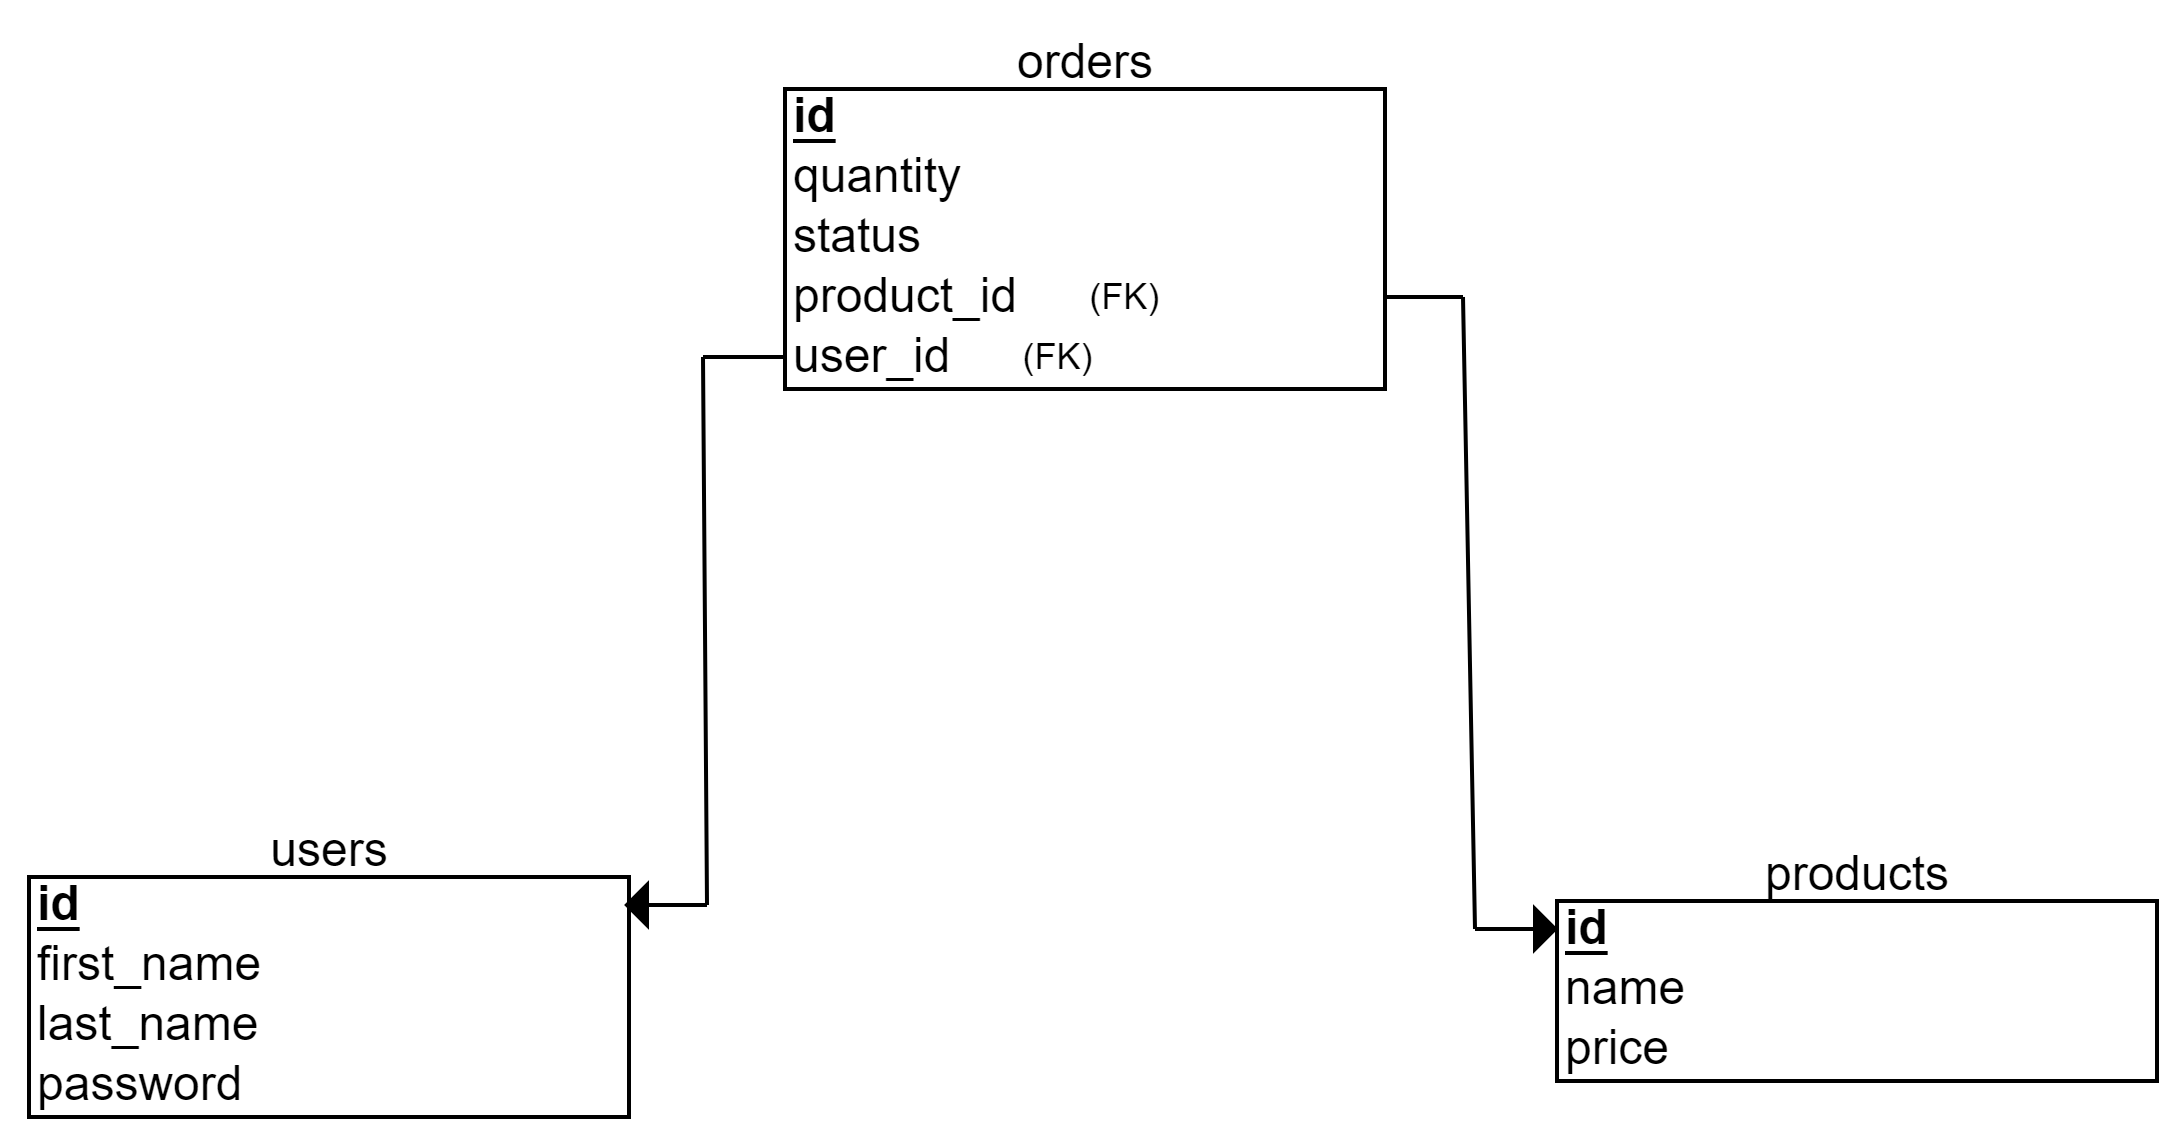
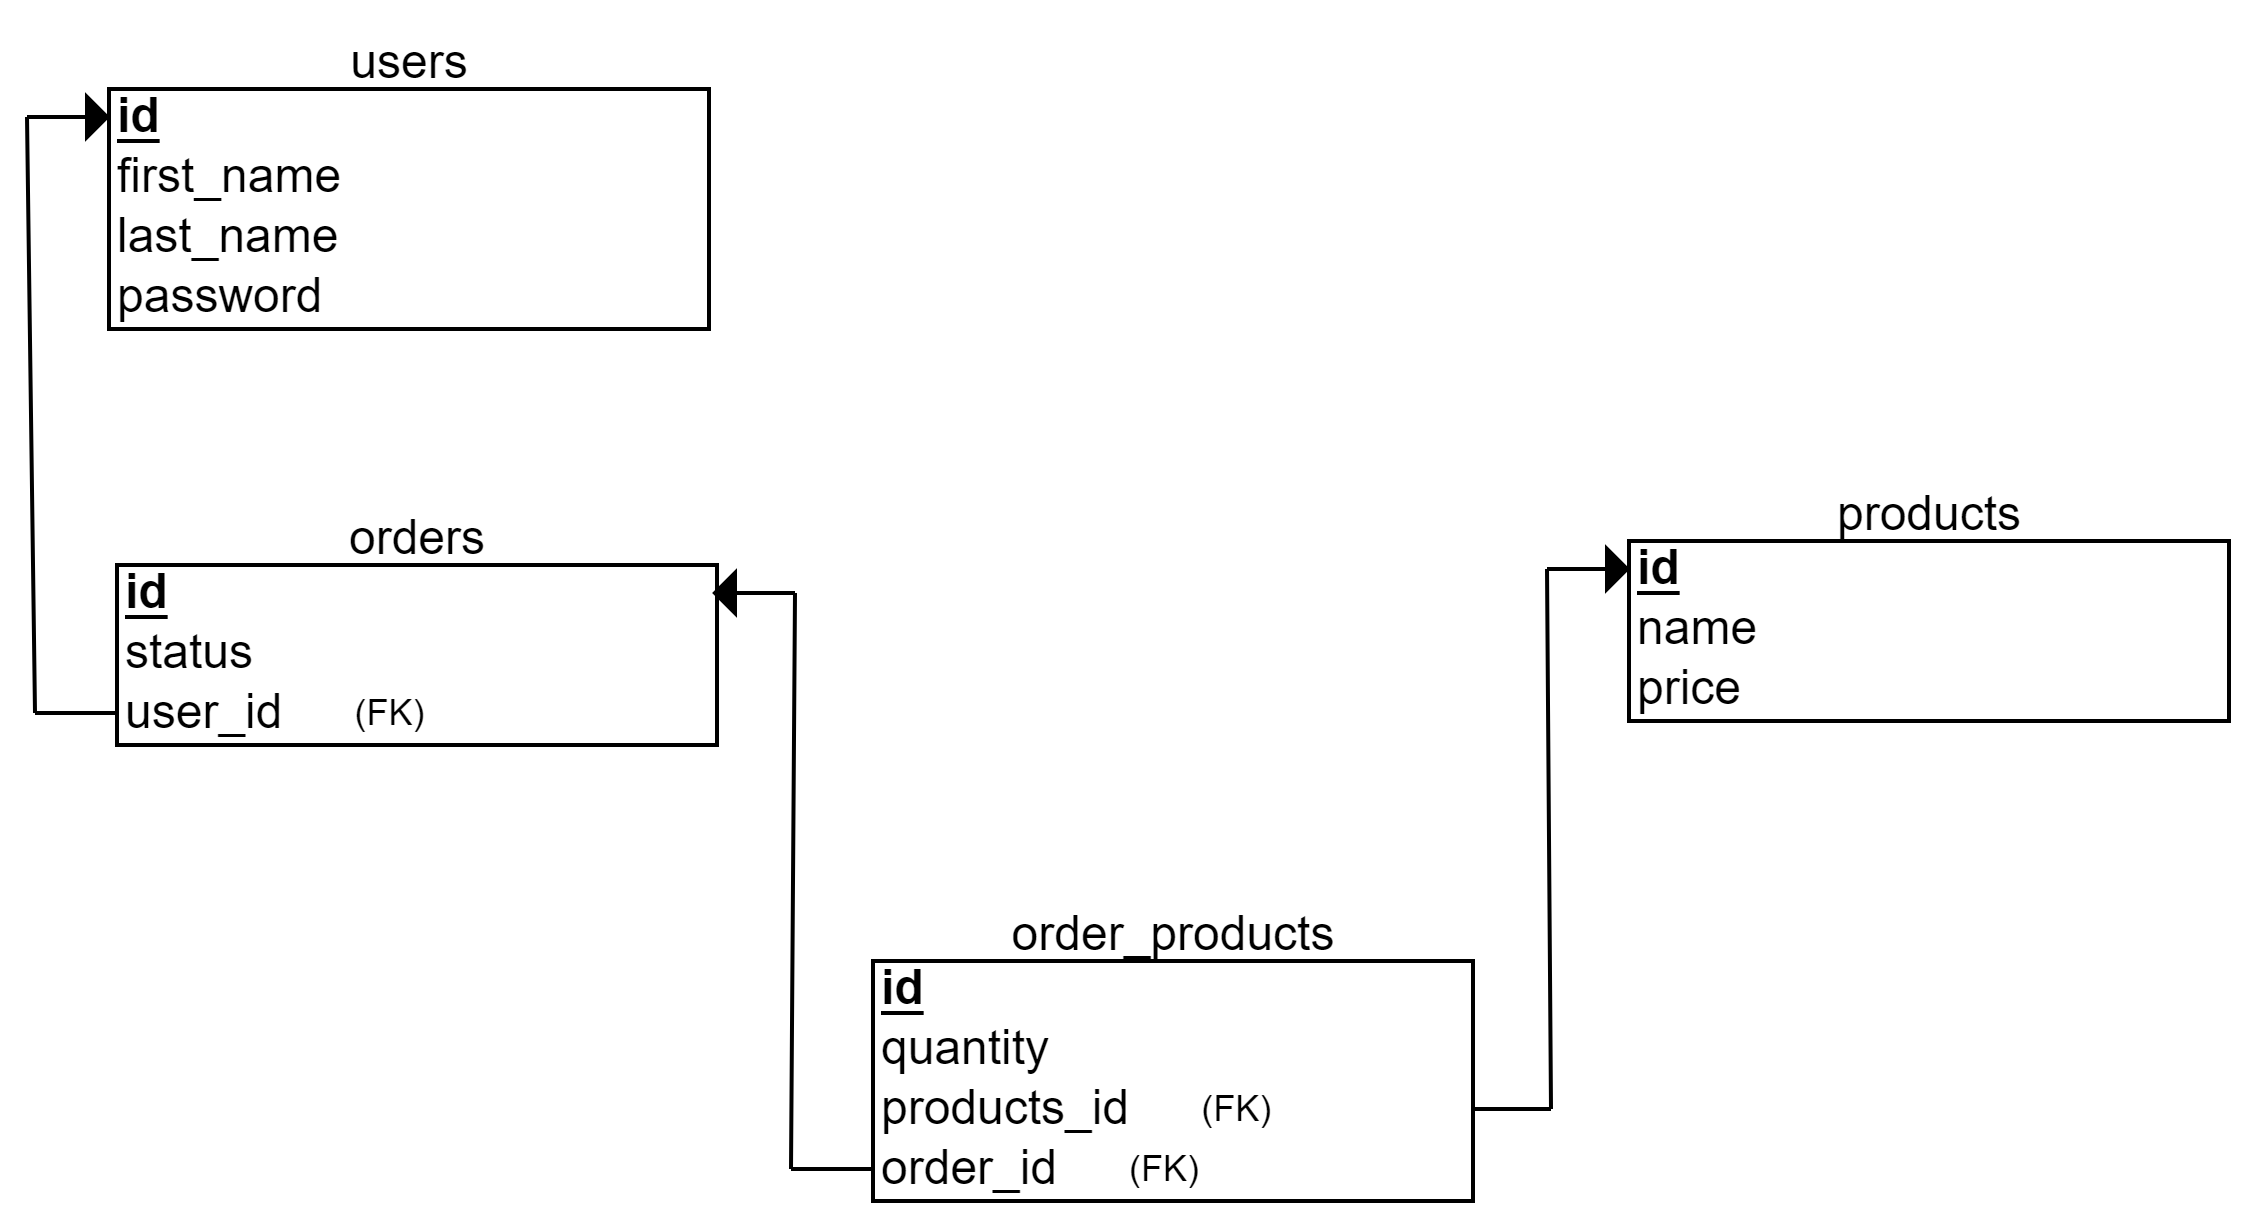
addProduct service

diff --git a/src/services/addProduct.ts b/src/services/addProduct.ts
@@ -1,0 +1,66 @@
+// this service will allow user to add a product into his order
+// (the user_id of the order must be his id)
+
+import express,{ Request,Response } from "express";
+import db from "../database";
+import { authenticationMiddleWare } from "../handlers/users";
+import jwt, { Secret } from "jsonwebtoken";
+import dotenv from "dotenv";
+dotenv.config();
+
+
+const addProduct = async (req:Request,res:Response)=>{
+
+    try
+    {
+        const order_id = parseInt(req.body.order_id);
+        const product_id = parseInt(req.body.product_id);
+        const quantity = parseInt(req.body.quantity);
+        const token = req.cookies.token;
+        const decoded = jwt.verify(token,(process.env.JWT_KEY) as Secret);
+        const user_id = (decoded as jwt.JwtPayload).user_id;
+        
+        // until this point I have the needed data about the user, product and order
+        // now I will check if user wants to add a products to an order belongs to him or not
+        const connection = await db.connect();
+        const query = "SELECT * FROM orders WHERE id=($1)";
+        const result = await connection.query(query,[order_id]);
+        if(result.rows.length == 0)
+        {
+            return res.json("wrong order id");
+        }
+        const logged_user_id = result.rows[0].user_id;
+        if(logged_user_id === user_id)
+        {
+            try
+            {
+                const query =
+                "INSERT INTO order_products (order_id,product_id,quantity) VALUES ($1,$2,$3) RETURNING *";
+                const result = await db.query(query,[order_id,product_id,quantity]);
+                res.json(result.rows[0]).status(200);
+            }
+            catch(err)
+            {
+                res.json("wrong order data");
+            }
+            
+        }
+        else
+        {
+            res.json("You don't have access to add to this order because you are not the user that made this order").status(200);
+        }
+        connection.release();
+    }
+    catch(err)
+    {
+        console.log(err);
+        res.send(err).json("error in addProduct service");
+    }
+    
+};
+
+const addPrdouctService =async (app:express.Application) => {
+    app.post("/service/add",authenticationMiddleWare,addProduct);
+};
+
+export default addPrdouctService;

diff --git a/migrations/20220314015319-order-products.js b/migrations/20220314015319-order-products.js
@@ -1,0 +1,53 @@
+'use strict';
+
+var dbm;
+var type;
+var seed;
+var fs = require('fs');
+var path = require('path');
+var Promise;
+
+/**
+  * We receive the dbmigrate dependency from dbmigrate initially.
+  * This enables us to not have to rely on NODE_PATH.
+  */
+exports.setup = function(options, seedLink) {
+  dbm = options.dbmigrate;
+  type = dbm.dataType;
+  seed = seedLink;
+  Promise = options.Promise;
+};
+
+exports.up = function(db) {
+  var filePath = path.join(__dirname, 'sqls', '20220314015319-order-products-up.sql');
+  return new Promise( function( resolve, reject ) {
+    fs.readFile(filePath, {encoding: 'utf-8'}, function(err,data){
+      if (err) return reject(err);
+      console.log('received data: ' + data);
+
+      resolve(data);
+    });
+  })
+  .then(function(data) {
+    return db.runSql(data);
+  });
+};
+
+exports.down = function(db) {
+  var filePath = path.join(__dirname, 'sqls', '20220314015319-order-products-down.sql');
+  return new Promise( function( resolve, reject ) {
+    fs.readFile(filePath, {encoding: 'utf-8'}, function(err,data){
+      if (err) return reject(err);
+      console.log('received data: ' + data);
+
+      resolve(data);
+    });
+  })
+  .then(function(data) {
+    return db.runSql(data);
+  });
+};
+
+exports._meta = {
+  "version": 1
+};

diff --git a/src/models/order.ts b/src/models/order.ts
@@ -2,9 +2,7 @@ import db from "../database";
 
 export type Order = {
     id?:number,
-    product_id:number,
     user_id:number,
-    quantity:number,
     status:number
 };
 
@@ -50,9 +48,9 @@ export class OrderStore
         {
             const connection = await db.connect();
             const query = 
-            "INSERT INTO orders (product_id,user_id,quantity,status) VALUES ($1,$2,$3,$4) RETURNING *";
+            "INSERT INTO orders (user_id,status) VALUES ($1,$2) RETURNING *";
             const result = await connection.query(query,
-                [order.product_id,order.user_id,order.quantity,order.status]
+                [order.user_id,order.status]
             );
             connection.release();
             return result.rows[0];

diff --git a/src/handlers/orders.ts b/src/handlers/orders.ts
@@ -24,13 +24,9 @@ const createHandler = async(req:Request,res:Response)=>{
     {
         const order_store = new OrderStore();
         const user_id:number = parseInt(req.body.user_id);
-        const product_id:number = parseInt(req.body.product_id);
-        const quantity:number = parseInt(req.body.quantity);
         const status:number = parseInt(req.body.status);
         const order:Order = {
             user_id:user_id,
-            product_id:product_id,
-            quantity:quantity,
             status:status
         };
 

diff --git a/src/server.ts b/src/server.ts
@@ -5,6 +5,7 @@ import usersHandler from "./handlers/users";
 import ordersHandler from "./handlers/orders";
 import userOrdersService from "./services/userOrders";
 import cookieParser from "cookie-parser";
+import addPrdouctService from "./services/addProduct";
 
 // authentication middleware for jwt tokens
 
@@ -22,5 +23,6 @@ productsHandler(app);
 usersHandler(app);
 ordersHandler(app);
 userOrdersService(app);
+addPrdouctService(app);
 
 export default app;

diff --git a/src/handlers/users.ts b/src/handlers/users.ts
@@ -31,7 +31,7 @@ const createHandler = async (req:Request,res:Response)=> {
             return res.json("first name and password are required");
         }
         const user_store = new UserStore();
-        console.log("create handler used");
+        //console.log("create handler used");
         const u:User = {
             first_name:req.body.first_name,
             last_name:req.body.last_name,

diff --git a/README.md b/README.md
@@ -5,6 +5,22 @@ setup steps:
 
 2- install npm
 
+3- database:
+
+host : "127.0.0.1"
+
+driver : "pg"
+
+4- In "database.json" file :
+
+change (database, user, password, host) valuess with the suitable values to your machine
+
+ex: if you want to run this project using database called "shop" then in change :
+
+"database":"store_front_database" to "database" : "shop"
+
+
+
 
 ### Server will run on port : 
 3000
